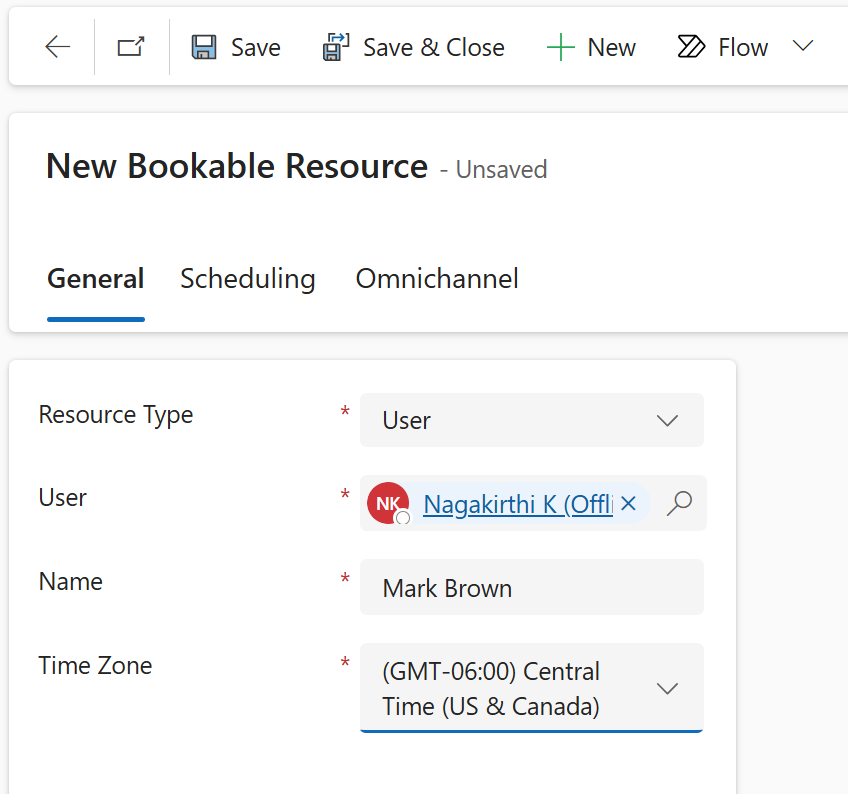
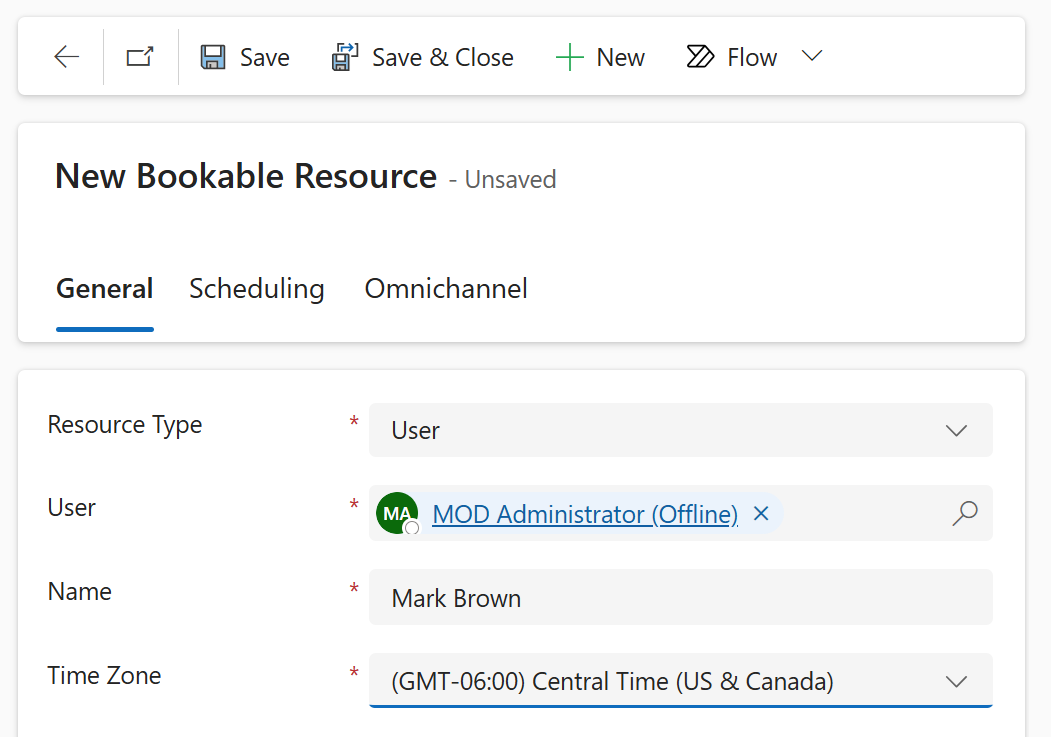
Lab 8

diff --git a/Lab Guides/Lab 8 - Set up intelligent skill finder model.md b/Lab Guides/Lab 8 - Set up intelligent skill finder model.md
@@ -1,4 +1,6 @@
-# Setting up skill-based routing
+# Lab 8 - Set up an intelligent skill finder model
+
+**Objective** - 
 
 ## Exercise 1: Create skills
 
@@ -8,21 +10,25 @@
 2.  On the **User management** page, select **Manage** next to
     **Skills**.
 
-![A screenshot of a computer Description automatically
+    ![A screenshot of a computer Description automatically
 generated](./media/media8/image1.png)
 
 3.  Select **+ New**.
 
-![Graphical user interface, text, application Description automatically
+    ![Graphical user interface, text, application Description automatically
 generated](./media/media8/image2.png)
 
 4.  Specify the following in the **New Characteristic** page.
 
-[TABLE]
+    **Name** - `Spanish`
+
+    **Type** - Skill
+
+    **Description** - `This record is used to define the skill level of the Spanish language`
 
 4.  Select **Save & Close**.
 
-![](./media/media8/image3.png)
+    ![](./media/media8/image3.png)
 
 ## Exercise 2: Create a rating model and rating value
 
@@ -31,51 +37,59 @@ generated](./media/media8/image2.png)
 
 2.  Select **Manage** next to the **Skill-based routing**.
 
-![A screenshot of a computer Description automatically
+    ![A screenshot of a computer Description automatically
 generated](./media/media8/image4.png)
 
 3.  On the **Omnichannel Configuration** page, in the **Rating
     Model** section, select **+ New Rating Model**.
 
-![Graphical user interface, application Description automatically
+    ![Graphical user interface, application Description automatically
 generated](./media/media8/image5.png)
 
 4.  Specify the following in the **New Rating Model** page.
 
-[TABLE]
+    **Name** - `Language rating model`
+
+    **Min Rating Value** - `1`
+
+    **Max Rating Value** - `10`
+
 
 5.  Select **Save**.
 
-![Graphical user interface, application Description automatically
+    ![Graphical user interface, application Description automatically
 generated](./media/media8/image6.png)
 
 6.  The **Rating Values** section appears. Select **+** **New Rating
     Value**.
 
-![A screenshot of a computer Description automatically
+    ![A screenshot of a computer Description automatically
 generated](./media/media8/image7.png)
 
 7.  The **New Rating Value** page appears.
 
 8.  Specify the following.
 
-[TABLE]
+    **Name** - `Language rating value`
+
+    **Value** - `10`
+
 
 9.  Select **Save & Close** to save and add the rating value to the
     grid.
 
-![A screenshot of a computer Description automatically
+    ![A screenshot of a computer Description automatically
 generated](./media/media8/image8.png)
 
 10. Select **Save & Close on the top of Language rating model page to
     navigate back to the Omnichannel Configuration page**.
 
-![A screenshot of a computer Description automatically
+    ![A screenshot of a computer Description automatically
 generated](./media/media8/image9.png)
 
 11. On the **Omnichannel Configuration** page, click **Save & Close**
 
-![Graphical user interface, text, application, email Description
+    ![Graphical user interface, text, application, email Description
 automatically generated](./media/media8/image10.png)
 
 ## Exercise 3: Add agent as bookable resource
@@ -86,53 +100,51 @@ automatically generated](./media/media8/image10.png)
 2.  On the **User management** page, select **Manage** next
     to **Users**.
 
-![Graphical user interface, application Description automatically
+    ![Graphical user interface, application Description automatically
 generated](./media/media8/image11.png)
 
 3.  Click the dropdown next to **Enabled Users** and select
     **Omnichannel Users**.
 
-![](./media/media8/image12.png)
+    ![](./media/media8/image12.png)
 
-4.  On the **Omnichannel Users** page, select a user admin user in the
+4.  On the **Omnichannel Users** page, select your admin from the
     list.
-
-&nbsp;
 
 5.  Select the **Omnichannel** tab.
 
-6.  Select** +** **New Bookable Resource** under the **Skills
+6.  Select **+** **New Bookable Resource** under the **Skills
     Configuration** section.
 
-![Graphical user interface, text, application, email Description
+    ![Graphical user interface, text, application, email Description
 automatically generated](./media/media8/image13.png)
 
 7.  Enter the following details on the **New Bookable Resource** page.
 
-    1.  **Name** – Mark Brown
+    1.  **Name** – `Mark Brown`
 
     2.  **Time Zone** - Central Time (US & Canada)
 
     3.  Select **Save**.
 
-![A screenshot of a computer Description automatically
+    ![A screenshot of a computer Description automatically
 generated](./media/media8/image14.png)
 
 8.  Click the **Work Hours** tab to see the details of the agent **Mark
     Brown**.
 
-![A screenshot of a computer Description automatically
+    ![A screenshot of a computer Description automatically
 generated](./media/media8/image15.png)
 
 7.  Select the **General** tab and then select **Save & Close** to
     navigate back to your admin User page.
 
-![A screenshot of a computer Description automatically
+    ![A screenshot of a computer Description automatically
 generated](./media/media8/image16.png)
 
 8.  On the **MOD Administrator** page, select **Save & Close**.
 
-![A screenshot of a computer Description automatically
+    ![A screenshot of a computer Description automatically
 generated](./media/media8/image17.png)
 
 ## Exercise 4: Assign agents to skill
@@ -143,18 +155,18 @@ generated](./media/media8/image17.png)
 2.  On the **User management** page, select **Manage** next
     to **Skills**.
 
-![](./media/media8/image1.png)
+    ![](./media/media8/image1.png)
 
 3.  Select a skill **Spanish** from the list for which you want to
     assign the agents.
 
-![A screenshot of a computer Description automatically
+    ![A screenshot of a computer Description automatically
 generated](./media/media8/image18.png)
 
 4.  Select** + New Bookable Resource Characteristic** in the **Users
     (Agents)** section.
 
-![Graphical user interface, application, chat or text message
+    ![Graphical user interface, application, chat or text message
 Description automatically generated](./media/media8/image19.png)
 
 5.  On the** New Bookable Resource Characteristic** page, **Language
@@ -163,9 +175,12 @@ Description automatically generated](./media/media8/image19.png)
 
 6.  Select **Save and Close**.
 
-![](./media/media8/image20.png)
+    ![](./media/media8/image20.png)
 
 7.  On the **Spanish** Characteristic page, select **Save**.
 
-![Graphical user interface, text, application Description automatically
+    ![Graphical user interface, text, application Description automatically
 generated](./media/media8/image21.png)
+
+
+**Summary** - You have successfully configured and set up skill-based routing in unified routing
